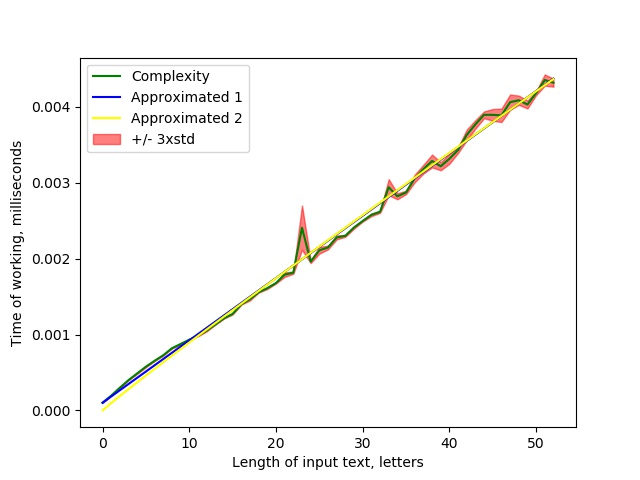
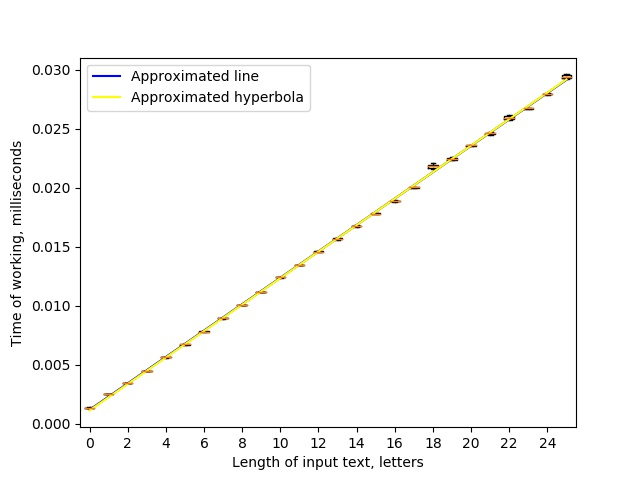
Changed plot on boxplot

diff --git a/statisticians/simple_statiscian.py b/statisticians/simple_statiscian.py
@@ -24,8 +24,16 @@ class Statiscian:
     def make_plot(self, running_times: np.array,
                   x_label_, y_label_, out_filename):
         means, stds = self.get_prepared_for_plotting(running_times)
-        X = np.arange(running_times.shape[0])
+        X = np.arange(1, running_times.shape[0]+1)
         Y = means
+        lower_bounds = Y - 1 * stds
+        upper_bounds = Y + 1 * stds
+        intervals = [
+            [lower_bounds[i],
+             Y[i],
+             upper_bounds[i]
+             ] for i in range(Y.shape[0])
+        ]
         # fit a line
         k, b = self.approximate_curve(X, Y, self.line)
         fitted_line = X * k + b
@@ -33,16 +41,20 @@ class Statiscian:
         a, b = self.approximate_curve(X, Y, self.hyperbola)
         fitted_hyperbola = X**b * a
         #
-        plt.plot(X, Y, 'g')
-        plt.fill_between(X, Y - 1 * stds, Y + 1 * stds, color='r', alpha=0.50)
-        plt.plot(X, fitted_line, color='blue')
-        plt.plot(X, fitted_hyperbola, color='yellow')
-        plt.legend(('Complexity',
-                    "Approximated 1",
-                    "Approximated 2",
-                    '+/- 3xstd'))
+        plt.boxplot(intervals)
+        line, = plt.plot(X,
+                         fitted_line,
+                         color='blue',
+                         label='Approximated line')
+        hyperbola, = plt.plot(X,
+                              fitted_hyperbola,
+                              color='yellow',
+                              label="Approximated hyperbola")
+        plt.xticks(range(1, len(intervals)+1, len(intervals) // 10),
+                   labels=np.arange(0, len(intervals), len(intervals) // 10))
         plt.ylabel(y_label_)
         plt.xlabel(x_label_)
+        plt.legend(handles=[line, hyperbola])
         plt.savefig(os.path.join("./results", out_filename + '.jpg'),
                     format='jpg',
                     )

diff --git a/manager.py b/manager.py
@@ -176,14 +176,14 @@ def test_second_experiment_works():
 
 if __name__ == "__main__":
     parser = create_parser()
-    parsed_args = parser.parse_args(['2',
+    parsed_args = parser.parse_args(['1',
                                      '5',
                                      "bruteforce",
                                      "./data/Texts/Normal/INP_TEXT",
-                                     '-l',
-                                     '4200',
-                                     '-S',
-                                     "./data/Texts/Normal/Substrings.txt"
+                                     '-m',
+                                     '10',
+                                     '-s',
+                                     "рри"
                                      ])
     experiments_list = [first_experiment, second_experiment]
     if 1 <= parsed_args.n <= len(experiments_list):
@@ -192,7 +192,8 @@ if __name__ == "__main__":
         used_indices = np.where(mask)[0]
         results = results[used_indices]
         statiscian = Statiscian()
-        # statiscian.make_plot(x_label_="Length of input text, letters",
+        # statiscian.make_plot(running_times=results,
+        #                      x_label_="Length of input text, letters",
         #                      y_label_="Time of working, milliseconds",
         #                      out_filename="test")
         dir_name = os.path.dirname(parsed_args.substrings_filename)

diff --git a/data_loaders/data_best.py b/data_loaders/data_best.py
@@ -7,9 +7,9 @@ from string import ascii_lowercase
 def generate(max_lenght: int, substring: str, text_filename: str):
     with open(text_filename, 'r') as fin:
         text = fin.read()
-        max_amount = int(max_lenght * len(text) / 100 / 1_000)
+        max_amount = int(max_lenght * len(text) / 100 / 10_000)
         for i in range(1, max_amount + 1):
-            amount = i * 1_000
+            amount = i * 10_000
             text_for_search = text[:amount]
             yield [substring, text_for_search]
 
